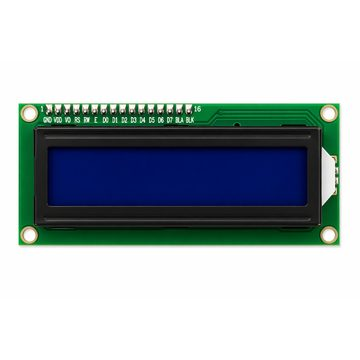
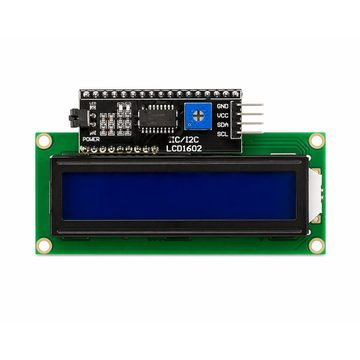
Agrega fotos para Mercado Libre y pasa el LCD 16x2 a versión I2C en el asistente

diff --git a/asistente.js b/asistente.js
@@ -224,10 +224,8 @@ function calcular() {
   const tiene = (s) => items.has(s);
   if (tiene("PAS-001") || tiene("PAS-002"))
     add("PAS-005", "con", "Una resistencia de 220 Ω en serie con cada LED");
-  if (tiene("DIS-002")) {
-    add("PAS-008", "con", "Ajuste de contraste del display LCD", { sumar: true });
-    if (esp) notas.push(["info", "El LCD 16x2 se alimenta con 5 V (pin VIN del ESP32) y funciona con las señales de 3,3 V conectando RW a GND."]);
-  }
+  if (tiene("DIS-002") && esp)
+    notas.push(["info", "El LCD 16x2 I2C se alimenta con 5 V (pin VIN o 5V de la placa); las señales I2C de 3,3 V funcionan bien."]);
   if (tiene("SEN-006") || tiene("SEN-015")) {
     add("PAS-007", "con", "Pull-up del bus 1-Wire");
     notas.push(["info", "El DS18B20 necesita una resistencia de pull-up de 4,7 kΩ entre datos y VCC: dos de 10 kΩ en paralelo (≈ 5 kΩ) funcionan perfecto."]);

diff --git a/asistente-datos.js b/asistente-datos.js
@@ -202,11 +202,12 @@ const CATALOGO = {
 "img": true
 },
 "DIS-002": {
-"n": "Display LCD 16x2",
-"i": "Paralelo 4 bits",
-"s": 6,
+"n": "Display LCD 16x2 I2C",
+"i": "I2C",
+"s": 0,
+"bus": "i2c",
 "m": "mod",
-"w": 12,
+"w": 4,
 "p": 5790,
 "img": true
 },
